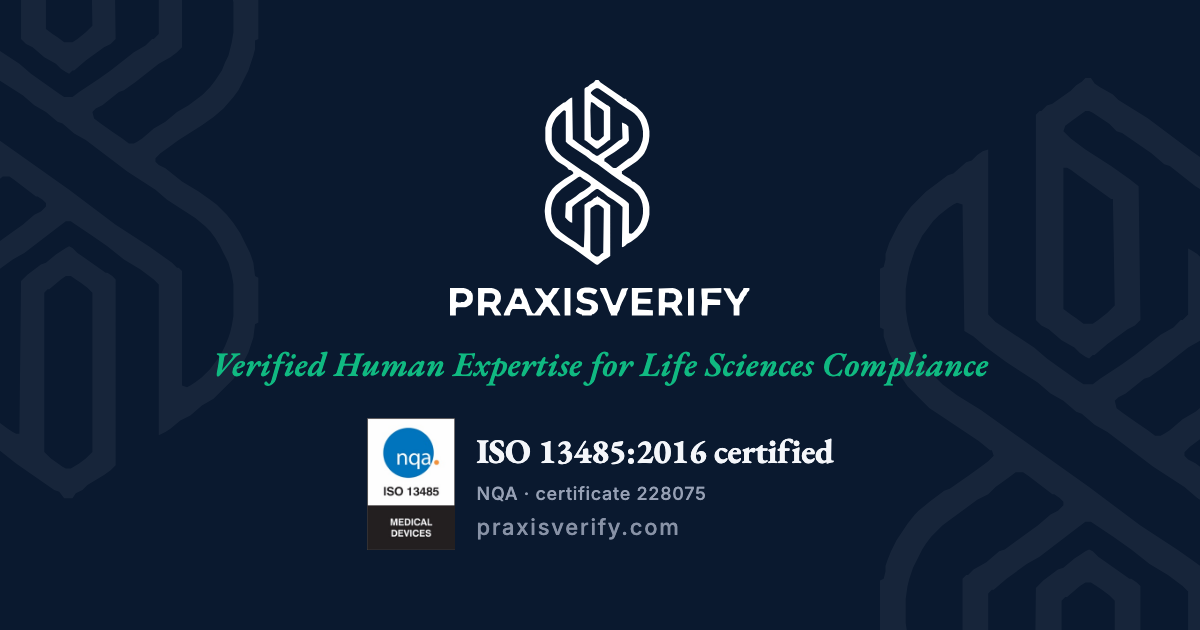
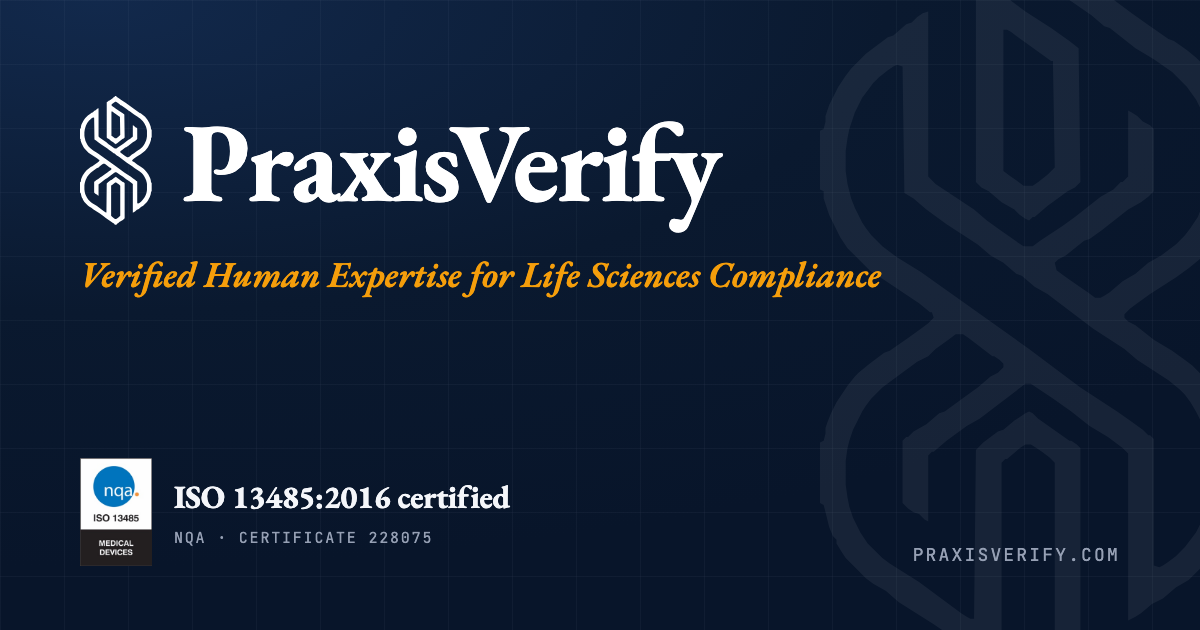
Social card: PraxisVerify as the headline, hero-style layout, NQA ISO 13485 mark bottom left
Left-aligned like the homepage hero (gradient, hairline grid, large faint
mark on the right): the mark and "PraxisVerify" in EB Garamond, the amber
tagline, and a bottom row with the unaltered NQA mark and certificate
228075 opposite the domain. og:image and twitter:image move to ?v=4.

diff --git a/drafts/social-card.html b/drafts/social-card.html
@@ -4,82 +4,83 @@
 <meta charset="UTF-8">
 <link rel="preconnect" href="https://fonts.googleapis.com">
 <link rel="preconnect" href="https://fonts.gstatic.com" crossorigin>
-<link href="https://fonts.googleapis.com/css2?family=EB+Garamond:ital,wght@0,700;1,600&family=Inter:wght@500&display=swap" rel="stylesheet">
+<link href="https://fonts.googleapis.com/css2?family=EB+Garamond:ital,wght@0,700;1,600&family=JetBrains+Mono:wght@400&display=swap" rel="stylesheet">
 <style>
 * { margin: 0; padding: 0; box-sizing: border-box; }
 html, body { width: 1200px; height: 630px; overflow: hidden; }
 body {
-    background: #0A192F;
     position: relative;
+    padding: 96px 80px 64px;
     display: flex;
     flex-direction: column;
-    align-items: center;
-    justify-content: center;
-    gap: 26px;
+    justify-content: space-between;
+    background: radial-gradient(120% 90% at 8% 0%, #12294c 0%, #0A192F 55%, #08152a 100%);
 }
-.wm { position: absolute; opacity: 0.05; pointer-events: none; }
-.wm-1 { top: -180px; left: -120px; width: 380px; }
-.wm-2 { bottom: -200px; right: -100px; width: 420px; }
-.logo { width: 300px; display: block; position: relative; z-index: 1; }
+.grid {
+    position: absolute;
+    inset: 0;
+    background-image: linear-gradient(rgba(148,163,184,0.055) 1px, transparent 1px), linear-gradient(90deg, rgba(148,163,184,0.055) 1px, transparent 1px);
+    background-size: 64px 64px;
+}
+.wm { position: absolute; top: -60px; right: -40px; width: 420px; opacity: 0.06; }
+.main, .foot { position: relative; z-index: 1; }
+.lockup { display: flex; align-items: center; gap: 30px; margin-bottom: 26px; }
+.lockup img { width: 72px; height: 129px; display: block; }
+.lockup span {
+    font-family: 'EB Garamond', Georgia, serif;
+    font-weight: 700;
+    font-size: 112px;
+    line-height: 1;
+    letter-spacing: -0.025em;
+    color: #FFFFFF;
+}
 .tagline {
     font-family: 'EB Garamond', Georgia, serif;
     font-style: italic;
     font-weight: 600;
-    font-size: 34px;
-    color: #10B981;
-    text-align: center;
-    letter-spacing: 0.01em;
-    position: relative;
-    z-index: 1;
+    font-size: 36px;
+    color: #F59E0B;
 }
-.cert {
-    display: flex;
-    align-items: center;
-    gap: 22px;
-    margin-top: 6px;
-    position: relative;
-    z-index: 1;
-}
-.cert-mark { line-height: 0; }
-.cert-mark img { width: 88px; height: 132px; display: block; }
+.foot { display: flex; align-items: flex-end; justify-content: space-between; }
+.cert { display: flex; align-items: center; gap: 22px; }
+.cert img { width: 72px; height: 108px; display: block; }
 .cert-text { display: flex; flex-direction: column; gap: 10px; }
 .cert-title {
     font-family: 'EB Garamond', Georgia, serif;
     font-weight: 700;
-    font-size: 34px;
-    color: #F4F6FA;
+    font-size: 32px;
     letter-spacing: -0.01em;
+    color: #F4F6FA;
 }
-.cert-sub {
-    font-family: 'Inter', 'Helvetica Neue', sans-serif;
-    font-weight: 500;
-    font-size: 18px;
+.mono {
+    font-family: 'JetBrains Mono', monospace;
+    font-size: 15px;
+    letter-spacing: 0.12em;
+    text-transform: uppercase;
     color: #96A0B4;
-    letter-spacing: 0.04em;
 }
-.domain {
-    font-family: 'Inter', 'Helvetica Neue', sans-serif;
-    font-weight: 500;
-    font-size: 22px;
-    color: #8892A6;
-    letter-spacing: 0.08em;
-    position: relative;
-    z-index: 1;
-}
+.domain { font-size: 18px; }
 </style>
 </head>
 <body>
-<img class="wm wm-1" src="../img/brand/mark-white-transparent.svg" alt="">
-<img class="wm wm-2" src="../img/brand/mark-white-transparent.svg" alt="">
-<img class="logo" src="../img/brand/logo-stacked-white-transparent.svg" alt="PraxisVerify">
-<p class="tagline">Verified Human Expertise for Life Sciences Compliance</p>
-<div class="cert">
-    <span class="cert-mark"><img src="../img/cert/nqa-iso-13485.jpg" alt="NQA ISO 13485 Medical Devices certification mark"></span>
-    <div class="cert-text">
-        <p class="cert-title">ISO 13485:2016 certified</p>
-        <p class="cert-sub">NQA &middot; certificate 228075</p>
-        <p class="domain">praxisverify.com</p>
+<div class="grid"></div>
+<img class="wm" src="../img/brand/mark-white-transparent.svg" alt="">
+<div class="main">
+    <div class="lockup">
+        <img src="../img/brand/mark-white-transparent.svg" alt="">
+        <span>PraxisVerify</span>
     </div>
+    <p class="tagline">Verified Human Expertise for Life Sciences Compliance</p>
+</div>
+<div class="foot">
+    <div class="cert">
+        <img src="../img/cert/nqa-iso-13485.jpg" alt="NQA ISO 13485 Medical Devices certification mark">
+        <div class="cert-text">
+            <p class="cert-title">ISO 13485:2016 certified</p>
+            <p class="mono">NQA &middot; certificate 228075</p>
+        </div>
+    </div>
+    <p class="mono domain">praxisverify.com</p>
 </div>
 </body>
 </html>

diff --git a/index.html b/index.html
@@ -12,10 +12,10 @@
     <meta name="twitter:card" content="summary">
     <meta name="twitter:title" content="PraxisVerify — Expert Verification for Life Science Compliance">
     <meta name="twitter:description" content="Pre-vetted regulatory experts. Secure in-browser review. 21 CFR Part 11 audit trails.">
-    <meta property="og:image" content="https://praxisverify.com/img/social-card.png?v=3">
+    <meta property="og:image" content="https://praxisverify.com/img/social-card.png?v=4">
     <meta property="og:image:width" content="1200">
     <meta property="og:image:height" content="630">
-    <meta name="twitter:image" content="https://praxisverify.com/img/social-card.png?v=3">
+    <meta name="twitter:image" content="https://praxisverify.com/img/social-card.png?v=4">
     <link rel="icon" type="image/svg+xml" href="img/brand/mark-adaptive.svg">
     <link rel="icon" type="image/png" href="img/pvlogo.png">
     <link rel="apple-touch-icon" sizes="180x180" href="/favicon-180.png">

diff --git a/experts.html b/experts.html
@@ -9,7 +9,7 @@
     <meta property="og:description" content="Credential once. Work across multiple clients. Skip the per-client vendor qualification cycle. The PraxisVerify network of pre-vetted regulatory experts is currently invite-only.">
     <meta property="og:type" content="website">
     <meta property="og:url" content="https://praxisverify.com/experts">
-    <meta property="og:image" content="https://praxisverify.com/img/social-card.png?v=3">
+    <meta property="og:image" content="https://praxisverify.com/img/social-card.png?v=4">
     <meta name="twitter:card" content="summary">
     <meta name="twitter:title" content="For Experts — The PraxisVerify Expert Network">
     <meta name="twitter:description" content="Credential once. Work across multiple clients. The PraxisVerify network of pre-vetted regulatory experts is currently invite-only.">

diff --git a/privacy.html b/privacy.html
@@ -9,7 +9,7 @@
     <meta property="og:description" content="How PraxisVerify protects confidential regulatory documents. Secure document review, GDPR compliance, and sub-processor transparency for life sciences.">
     <meta property="og:type" content="website">
     <meta property="og:url" content="https://praxisverify.com/privacy">
-    <meta property="og:image" content="https://praxisverify.com/img/social-card.png?v=3">
+    <meta property="og:image" content="https://praxisverify.com/img/social-card.png?v=4">
     <meta name="twitter:card" content="summary">
     <meta name="twitter:title" content="Privacy Policy — PraxisVerify">
     <meta name="twitter:description" content="How PraxisVerify protects confidential regulatory documents. Secure document review, GDPR compliance, sub-processor transparency.">

diff --git a/terms.html b/terms.html
@@ -9,7 +9,7 @@
     <meta property="og:description" content="Platform usage, acceptable use, early access terms, and intellectual property terms for the life sciences expert marketplace.">
     <meta property="og:type" content="website">
     <meta property="og:url" content="https://praxisverify.com/terms">
-    <meta property="og:image" content="https://praxisverify.com/img/social-card.png?v=3">
+    <meta property="og:image" content="https://praxisverify.com/img/social-card.png?v=4">
     <meta name="twitter:card" content="summary">
     <meta name="twitter:title" content="Terms of Service — PraxisVerify">
     <meta name="twitter:description" content="Platform usage, acceptable use, early access terms, and intellectual property terms for the life sciences expert marketplace.">

diff --git a/about.html b/about.html
@@ -9,7 +9,7 @@
     <meta property="og:description" content="The High-Trust Bridge between life sciences companies and verified human expertise. Founded in Ireland on EU Notified Body experience.">
     <meta property="og:type" content="website">
     <meta property="og:url" content="https://praxisverify.com/about">
-    <meta property="og:image" content="https://praxisverify.com/img/social-card.png?v=3">
+    <meta property="og:image" content="https://praxisverify.com/img/social-card.png?v=4">
     <meta name="twitter:card" content="summary">
     <meta name="twitter:title" content="About PraxisVerify">
     <meta name="twitter:description" content="The High-Trust Bridge — verified human expertise for life sciences compliance. Founded in Ireland.">

diff --git a/contact.html b/contact.html
@@ -9,7 +9,7 @@
     <meta property="og:description" content="Book a 20-minute demo or email info@praxisverify.com to discuss regulatory document verification for MedTech and Pharma.">
     <meta property="og:type" content="website">
     <meta property="og:url" content="https://praxisverify.com/contact">
-    <meta property="og:image" content="https://praxisverify.com/img/social-card.png?v=3">
+    <meta property="og:image" content="https://praxisverify.com/img/social-card.png?v=4">
     <meta name="twitter:card" content="summary">
     <meta name="twitter:title" content="Contact PraxisVerify">
     <meta name="twitter:description" content="Book a demo or get in touch to discuss regulatory document verification for life sciences.">

diff --git a/design.md b/design.md
@@ -236,7 +236,7 @@ Unchanged. Fixed at bottom, Accept / Decline, gating GA4 via Consent Mode v2, ch
 
 ## Assets
 
-Favicons `img/brand/mark-adaptive.svg` + `img/pvlogo.png` + `/favicon-180.png`; social card `img/social-card.png` (1200×630) with duplicates in `img/brand/` and the repo root; template at `drafts/social-card.html` (render at 1200×630, device scale 1, with headless Chrome). Since 2026-10-23 the card carries the NQA ISO 13485 mark and certificate number. When the card changes, bump the `?v=` query on every page's `og:image` / `twitter:image` and re-scrape in LinkedIn's Post Inspector.
+Favicons `img/brand/mark-adaptive.svg` + `img/pvlogo.png` + `/favicon-180.png`; social card `img/social-card.png` (1200×630) with duplicates in `img/brand/` and the repo root; template at `drafts/social-card.html` (render at 1200×630, device scale 1, with headless Chrome). Since 2026-10-23 the card follows the homepage hero: the mark and "PraxisVerify" as the headline, the amber tagline, and a bottom row with the NQA ISO 13485 mark and certificate number (left) and the domain (right). When the card changes, bump the `?v=` query on every page's `og:image` / `twitter:image` and re-scrape in LinkedIn's Post Inspector.
 
 `img/brand/logo-stacked-emerald-10b981-transparent.svg` is no longer rendered (the experts page header logo is hidden) but remains in the repo.
 
